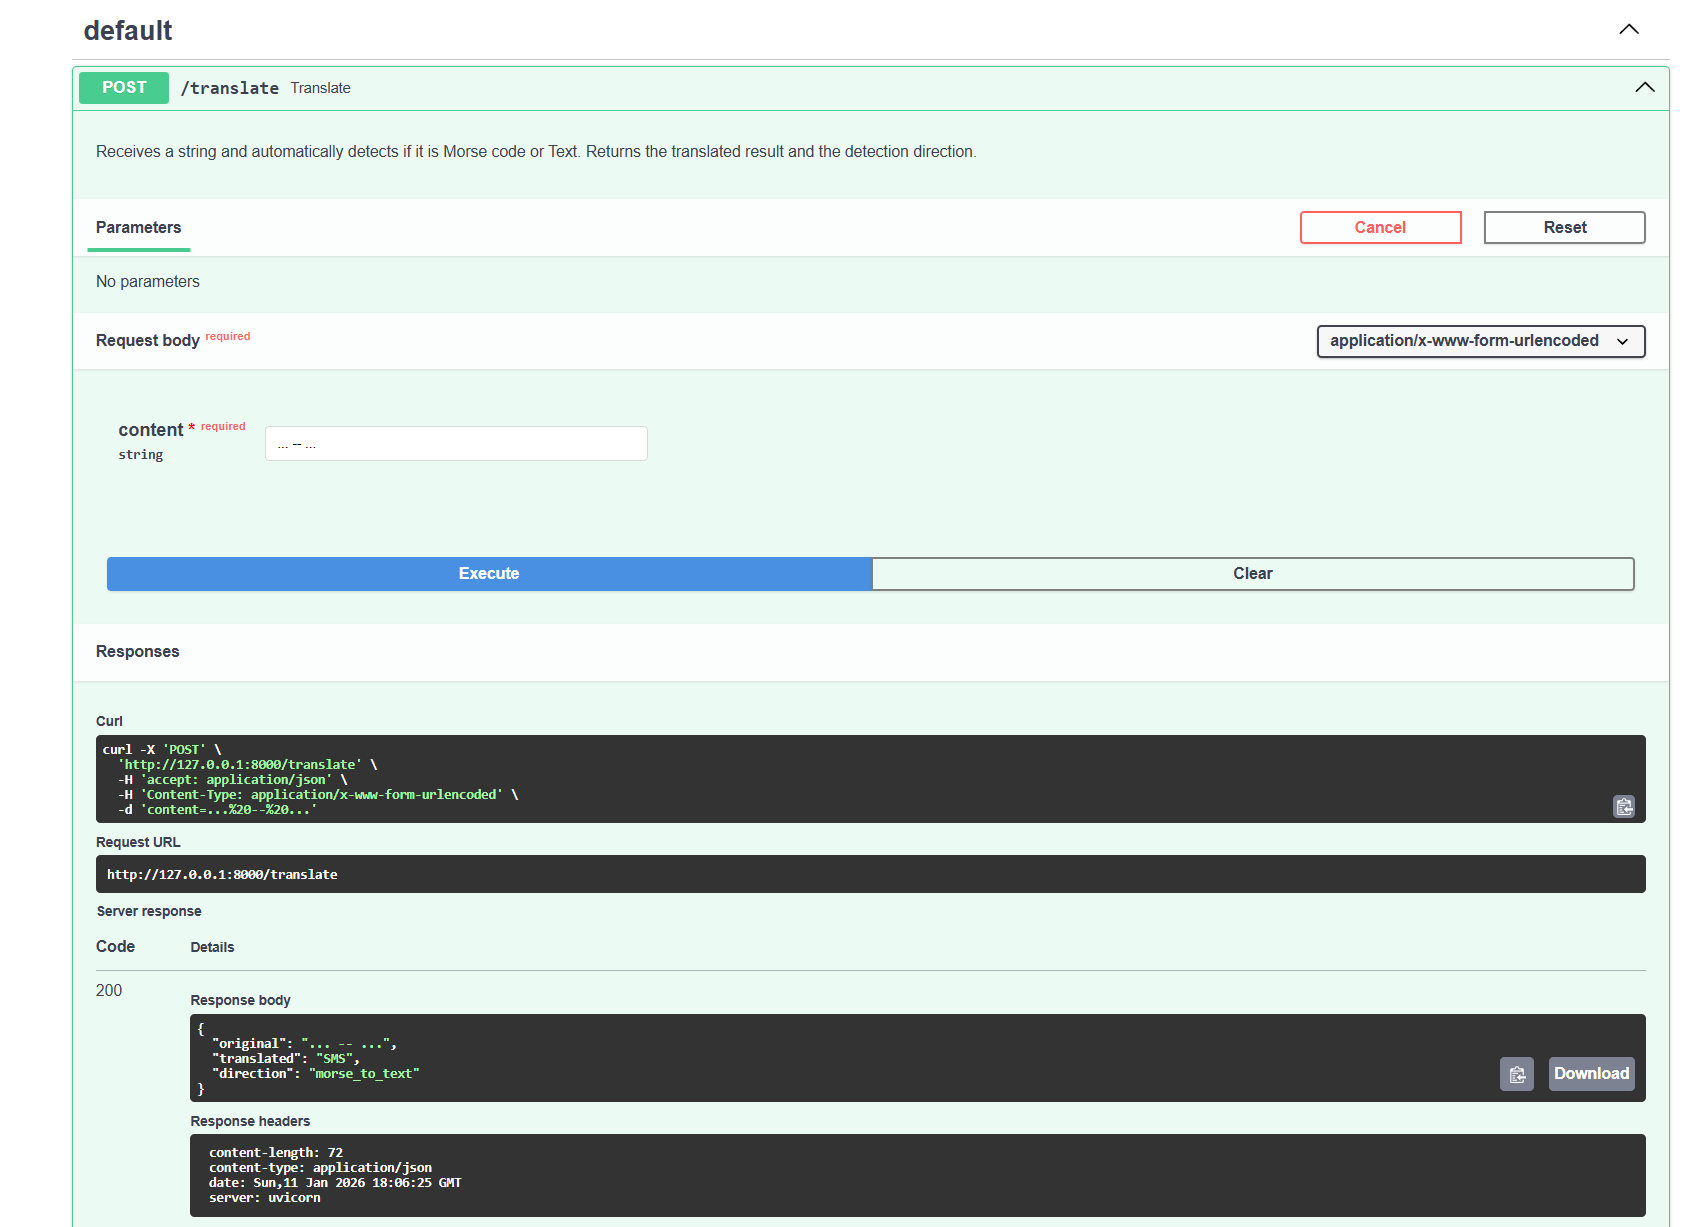
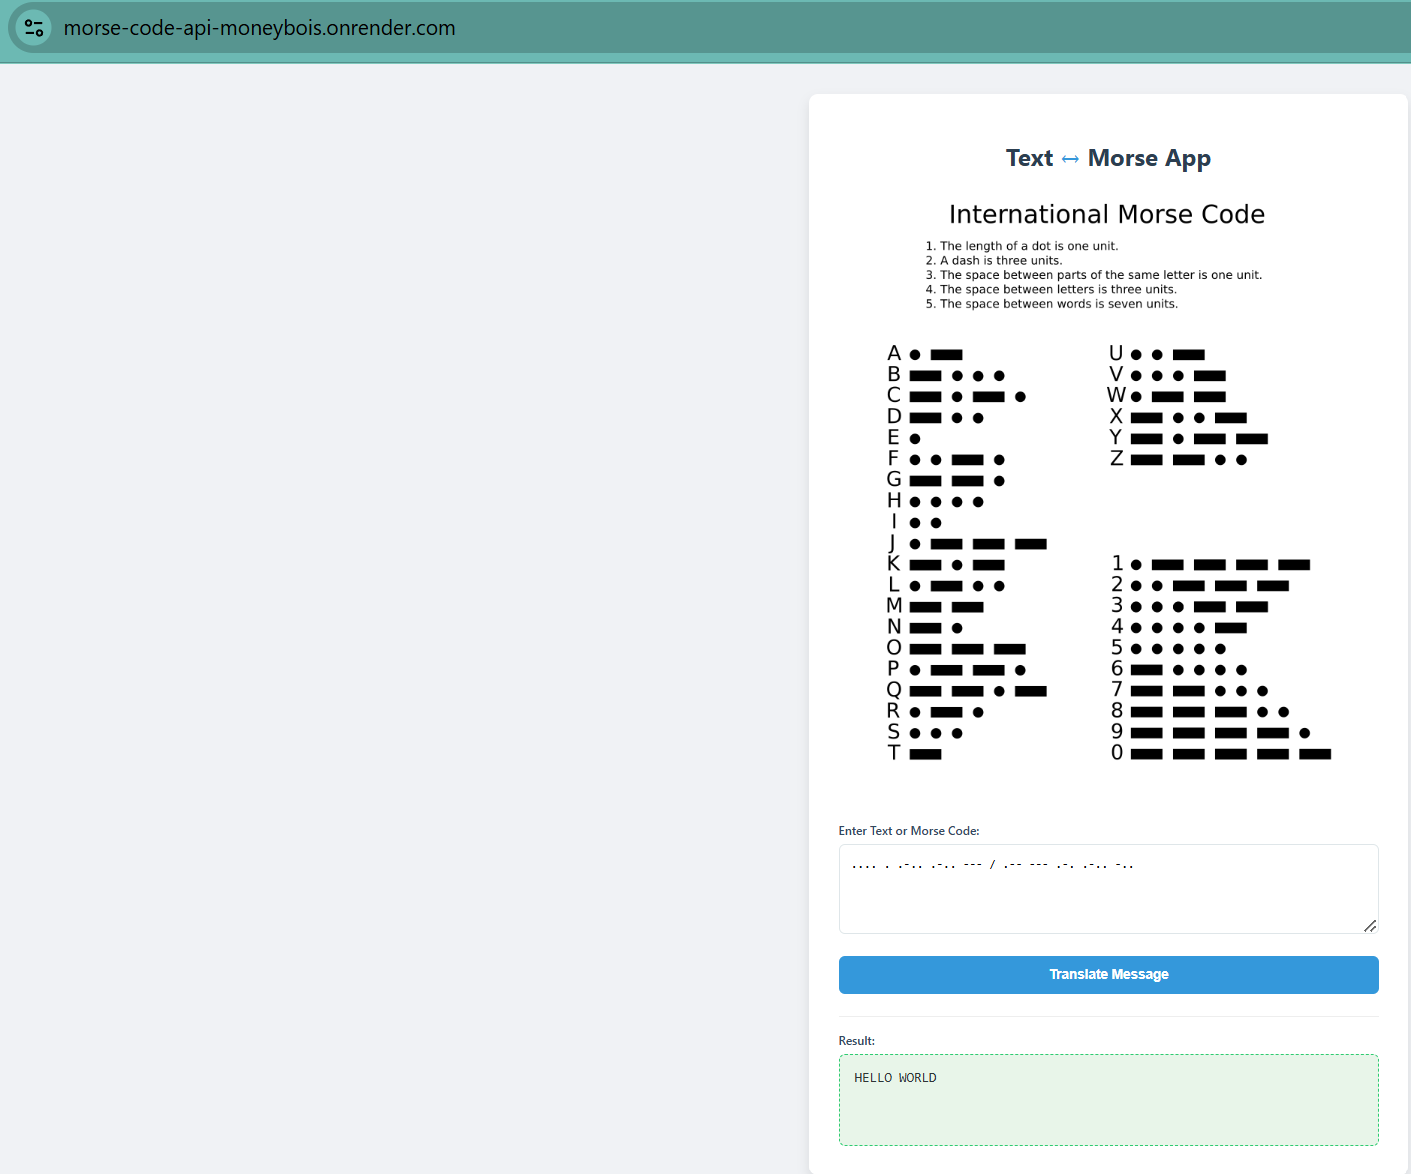
commit

diff --git a/ReadME.md b/ReadME.md
@@ -1,104 +1,55 @@
-# Text ↔ Morse Code Converter API
-**Task 1B - Medium Level Submission**
+# 📡 Text ↔ Morse Code Web App
 
-This project is a robust RESTful API built with **Python** and **FastAPI** that performs bidirectional conversion between plain text and International Morse Code. It features automatic input type detection and interactive documentation.
+We built a full-stack web app that translates **Text to Morse Code** (and back again) instantly. It’s powered by **FastAPI** on the backend and currently running live on **Render**.
 
+### 🔗 Try it out
+**Live App:** 👉 **[https://morse-code-api-moneybois.onrender.com/](https://morse-code-api-moneybois.onrender.com/)**
 
-## Live API Endpoint
-* **Base URL:** [https://morse-code-api-moneybois.onrender.com]
-* **Interactive Docs (Swagger UI):** [https://morse-code-api-moneybois.onrender.com/docs]
+---
 
-## Key Features
-* **Bidirectional Conversion:** Seamlessly converts Text-to-Morse and Morse-to-Text through a single endpoint.
-* **Automatic Detection:** The system intelligently identifies if the input is plain text or Morse code based on the character set.
-* **Interactive Documentation:** Fully documented using Swagger UI, allowing for easy testing without external tools.
-* **Robust Error Handling:** Unsupported characters are replaced with `?` to ensure stability.
+### ⚡ What it does
+Instead of just a basic script, we turned this into a proper web interface.
+* **Smart Detection:** You don't need to select a mode. Just type "Hello" or "... --- ..." and the app figures out which way to translate.
+* **Web UI:** Clean HTML/CSS interface so you don't have to use raw API calls.
+* **Documentation:** If you prefer the API view, the Swagger docs are auto-generated at `/docs`.
 
+---
 
-## Tech Stack
-* **Language:** Python 3.x
-* **Framework:** FastAPI
+### 📸 Proof it works
+We tested it with the classic "Hello World" example.
+
+**1. Text → Morse**
+*(Input: "Hello World")*
+![Text to Morse](images/text_to_morse.png)
+
+**2. Morse → Text**
+*(Input: ".... . .-.. .-.. --- / .-- --- .-. .-.. -..")*
+![Morse to Text](images/morse_to_text.png)
+
+---
+
+### 🛠 The Stack
+* **Backend:** Python 3.9 + FastAPI
 * **Server:** Uvicorn
-* **Data Handling:** Python-multipart (Form Data)
+* **Hosting:** Render (Cloud)
 
+---
 
-## ⚙ Working Principle
+### 💻 Run it locally
+If you want to test this on your own machine:
 
-### 1. Request Handling
-The API exposes a single `POST` endpoint: `/translate`. It accepts data via **Form URL Encoded** format. This ensures compatibility with standard HTML forms and API testing tools.
-
-### 2. Input Identification
-Upon receiving a request, the logic inspects the input string:
-* If the string contains **only** characters from the set `{'.', '-', '/', ' '}`, it is identified as **Morse Code**.
-* If it contains any other characters (A-Z, 0-9, etc.), it is identified as **Plain Text**.
-
-### 3. Conversion Logic
-* **Text → Morse:** The input is normalized to uppercase. Each character is mapped to its Morse equivalent using a dictionary lookup ($O(1)$ complexity). Letters are separated by spaces.
-* **Morse → Text:** The string is split by `" / "` to separate words, then by `" "` to separate letters. These sequences are reverse-mapped to their alphanumeric equivalents.
-
-**Mapping Reference:** Mapping Reference is provided in API.
-
-
-## Local Setup Guide
-
-1.  **Clone the repository**
+1.  **Clone the repo:**
     ```bash
-    git clone <your-repo-url>
-    cd <your-folder-name>
+    git clone [https://github.com/ZachariahPJ/morse-code-api.git](https://github.com/ZachariahPJ/morse-code-api.git)
+    cd morse-code-api
     ```
 
-2.  **Install Dependencies**
+2.  **Get the requirements:**
     ```bash
     pip install -r requirements.txt
     ```
 
-3.  **Run the Server**
+3.  **Launch:**
     ```bash
     uvicorn main:app --reload
     ```
-
-4.  **Test the API**
-    Open your browser to: `http://127.0.0.1:8000/docs`
-
-
-## 📖 API Usage Guide
-
-### Endpoint: `/translate`
-* **Method:** `POST`
-* **Content-Type:** `application/x-www-form-urlencoded`
-
-#### Example 1: Text to Morse
-**Request:**
-* **Field:** `content`
-* **Value:** `HELLO WORLD`
-
-**Response:**
-```json
-{
-  "original": "HELLO WORLD",
-  "translated": ".... . .-.. .-.. --- / .-- --- .-. .-.. -..",
-  "direction": "text_to_morse"
-}
-```
-
-#### Example 2: Morse to Text
-**Request:**
-* **Field:** `content`
-* **Value:** `... --- ...`
-
-**Response:**
-```json
-{
-  "original": "... --- ...",
-  "translated": "SOS",
-  "direction": "morse_to_text"
-}
-```
-### Below are the screenshots demonstrating successful API calls, as required for validation.
-### Execution Proof
-
-Here is the screenshot of the TEXT TO MORSE:
-![TEXT TO MORSE Screenshot](images/text_to_morse.png)
-
-Here is the screenshot of the MORSE TO TEXT:
-![MORSE TO TEXT Screenshot](images/morse_to_text.png)
